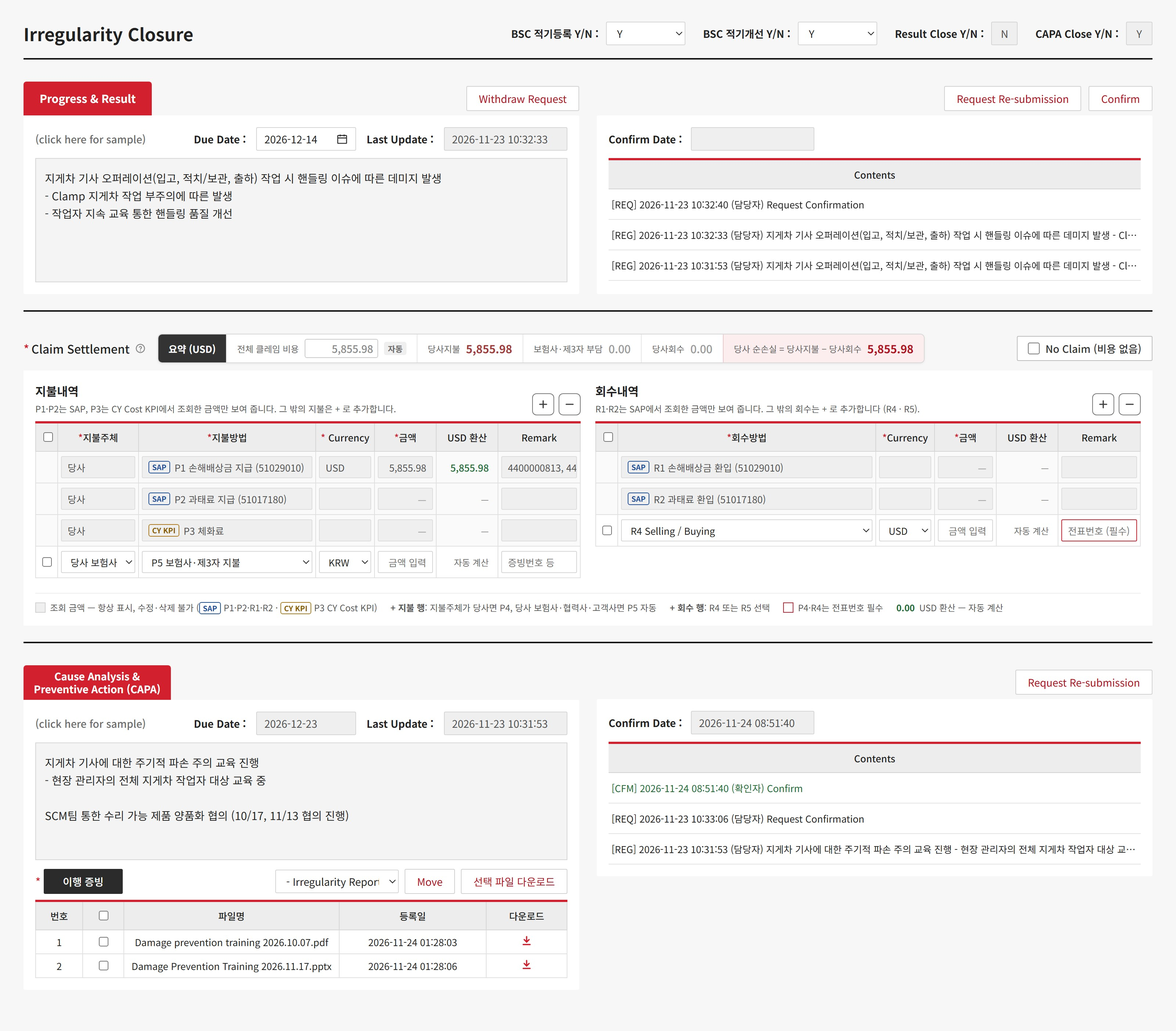
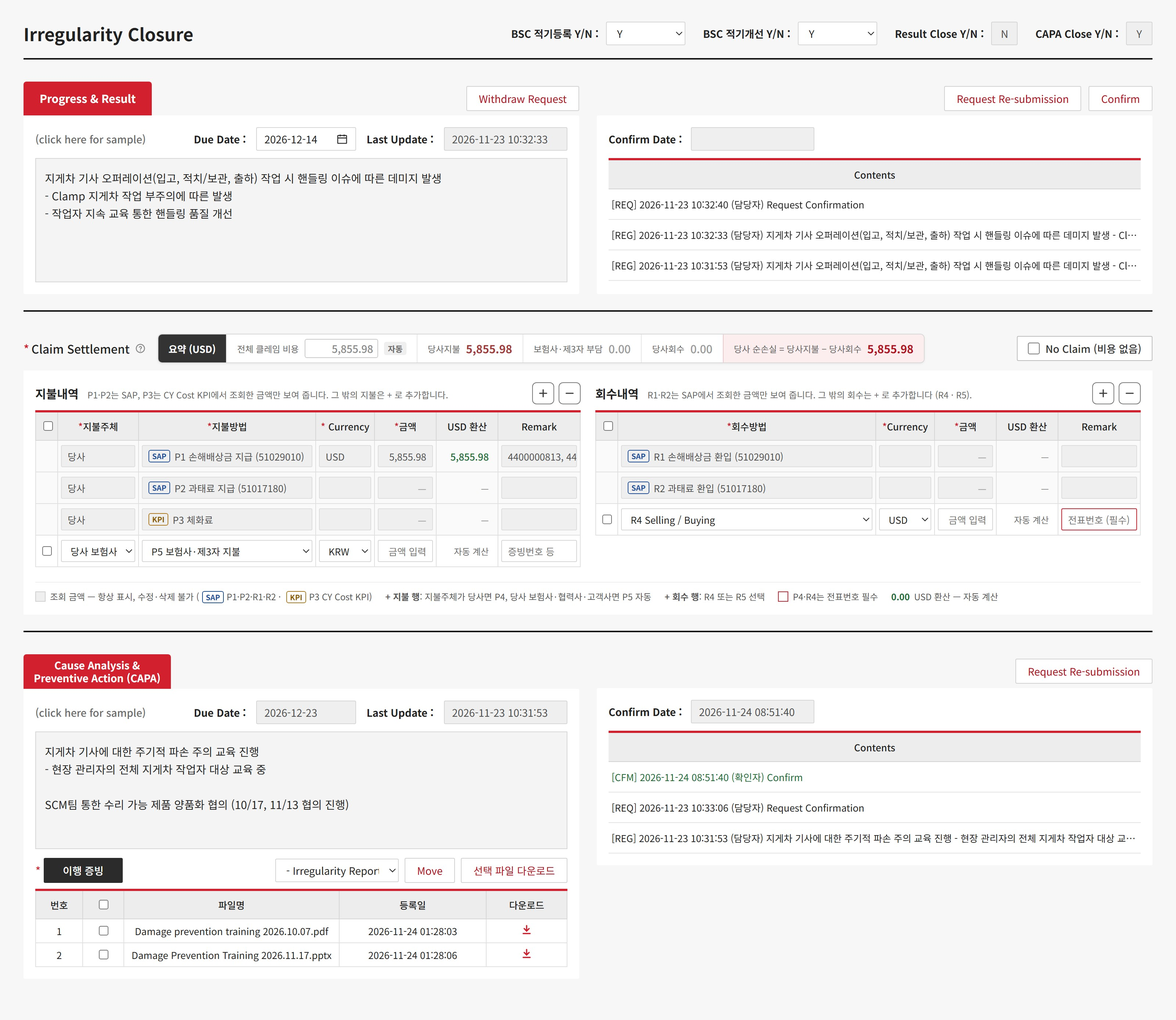
qms-claim-closure: drop empty-cost hint, stable auto tag, KPI tag, guidance beside table titles

diff --git a/share/qms-claim-closure.html b/share/qms-claim-closure.html
@@ -62,7 +62,7 @@ a{color:#B3121F}a:hover{color:#7E0C16}
 .totin{width:100px;height:26px;border:1px solid #C9C9C9;border-radius:3px;padding:0 6px;font:inherit;font-size:14px;font-weight:700;text-align:right;font-variant-numeric:tabular-nums;color:#222;background:#fff;box-sizing:border-box}
 .totin.isauto{color:#8A8A8A;font-weight:500}
 .totin:disabled{background:#F3F3F3;color:#9A9A9A}
-.totauto{font-size:11px;font-weight:700;color:#6B6B6B;background:#EFEFEF;border-radius:3px;padding:1px 5px;white-space:nowrap}
+.totauto{visibility:visible;font-size:11px;font-weight:700;color:#6B6B6B;background:#EFEFEF;border-radius:3px;padding:1px 5px;white-space:nowrap}
 .totin::placeholder{font-weight:400;color:#AAA}
 .grid tr.fx td{background:#FAFAFA}
 .nil{color:#A0A0A0}
@@ -174,10 +174,10 @@ a{color:#B3121F}a:hover{color:#7E0C16}
 <div style="display: grid; grid-template-columns: repeat(auto-fit, minmax(min(560px, 100%), 1fr)); gap: 20px; background: #fff; padding: 16px; box-sizing: border-box;">
 
 <div style="min-width: 0;">
-<div style="display: flex; align-items: flex-end; justify-content: space-between; gap: 12px; margin-bottom: 8px;">
-<div style="min-width: 0;">
+<div style="display: flex; align-items: center; justify-content: space-between; gap: 12px; margin-bottom: 8px;">
+<div style="min-width: 0; display: flex; flex-wrap: wrap; align-items: baseline; gap: 2px 12px;">
 <h2 style="margin: 0; font-size: 16px; font-weight: 700; display: flex; align-items: center; gap: 8px;">지불내역</h2>
-<p style="margin: 4px 0 0; font-size: 12px; color: #555; line-height: 1.5;">P1·P2는 SAP, P3는 CY Cost KPI에서 조회한 금액만 보여 줍니다. 그 밖의 지불은 + 로 추가합니다.</p>
+<p style="margin: 0; font-size: 12px; color: #666; line-height: 1.5;">P1·P2는 SAP, P3는 CY Cost KPI에서 조회한 금액만 보여 줍니다. 그 밖의 지불은 + 로 추가합니다.</p>
 </div>
 <div style="display: flex; align-items: center; gap: 6px; flex: none;">
 
@@ -219,7 +219,7 @@ a{color:#B3121F}a:hover{color:#7E0C16}
 <tr class="fx">
 <td></td>
 <td><div class="rocell">당사</div></td>
-<td><div class="rocell"><span class="chip cy">CY KPI</span>P3 체화료</div></td>
+<td><div class="rocell"><span class="chip cy">KPI</span>P3 체화료</div></td>
 <td><div class="rocell"></div></td>
 <td><div class="rocell num nil">—</div></td>
 <td><div class="auto">—</div></td>
@@ -240,10 +240,10 @@ a{color:#B3121F}a:hover{color:#7E0C16}
 </div>
 
 <div style="min-width: 0;">
-<div style="display: flex; align-items: flex-end; justify-content: space-between; gap: 12px; margin-bottom: 8px;">
-<div style="min-width: 0;">
+<div style="display: flex; align-items: center; justify-content: space-between; gap: 12px; margin-bottom: 8px;">
+<div style="min-width: 0; display: flex; flex-wrap: wrap; align-items: baseline; gap: 2px 12px;">
 <h2 style="margin: 0; font-size: 16px; font-weight: 700; display: flex; align-items: center; gap: 8px;">회수내역</h2>
-<p style="margin: 4px 0 0; font-size: 12px; color: #555; line-height: 1.5;">R1·R2는 SAP에서 조회한 금액만 보여 줍니다. 그 밖의 회수는 + 로 추가합니다 (R4 · R5).</p>
+<p style="margin: 0; font-size: 12px; color: #666; line-height: 1.5;">R1·R2는 SAP에서 조회한 금액만 보여 줍니다. 그 밖의 회수는 + 로 추가합니다 (R4 · R5).</p>
 </div>
 <div style="display: flex; align-items: center; gap: 6px; flex: none;">
 <button class="ibtn" type="button" aria-label="회수 행 추가"><svg width="16" height="16" viewBox="0 0 24 24" fill="none" stroke="currentColor" stroke-width="2.4" stroke-linecap="round" aria-hidden="true"><path d="M12 5v14M5 12h14"></path></svg></button>
@@ -292,7 +292,7 @@ a{color:#B3121F}a:hover{color:#7E0C16}
 </div>
 
 <div class="legend" style="grid-column: 1 / -1; margin-top: 0; padding-top: 10px; border-top: 1px solid #EEEEEE;">
-<span><span class="sw" style="background: #EFEFEF;"></span>조회 금액 — 항상 표시, 수정·삭제 불가 (<span class="chip" style="margin-right: 4px;">SAP</span>P1·P2·R1·R2 · <span class="chip cy" style="margin-right: 4px;">CY KPI</span>P3 CY Cost KPI)</span>
+<span><span class="sw" style="background: #EFEFEF;"></span>조회 금액 — 항상 표시, 수정·삭제 불가 (<span class="chip" style="margin: 0 4px;">SAP</span>P1·P2·R1·R2 · <span class="chip cy" style="margin: 0 4px;">KPI</span>P3 CY Cost KPI)</span>
 <span><b>+ 지불 행</b>: 지불주체가 당사면 P4, 당사 보험사·협력사·고객사면 P5 자동</span>
 <span><b>+ 회수 행</b>: R4 또는 R5 선택</span>
 <span><span class="sw" style="background: #fff; border-color: #D3202F;"></span>P4·R4는 전표번호 필수</span>
@@ -435,10 +435,10 @@ Summary (USD)</div>
 <div style="display: grid; grid-template-columns: repeat(auto-fit, minmax(min(560px, 100%), 1fr)); gap: 20px; background: #fff; padding: 16px; box-sizing: border-box;">
 
 <div style="min-width: 0;">
-<div style="display: flex; align-items: flex-end; justify-content: space-between; gap: 12px; margin-bottom: 8px;">
-<div style="min-width: 0;">
+<div style="display: flex; align-items: center; justify-content: space-between; gap: 12px; margin-bottom: 8px;">
+<div style="min-width: 0; display: flex; flex-wrap: wrap; align-items: baseline; gap: 2px 12px;">
 <h2 style="margin: 0; font-size: 16px; font-weight: 700; display: flex; align-items: center; gap: 8px;">Payments</h2>
-<p style="margin: 4px 0 0; font-size: 12px; color: #555; line-height: 1.5;">P1·P2 show SAP amounts and P3 shows the CY Cost KPI amount only. Add other payments with +.</p>
+<p style="margin: 0; font-size: 12px; color: #666; line-height: 1.5;">P1·P2 show SAP amounts and P3 shows the CY Cost KPI amount only. Add other payments with +.</p>
 </div>
 <div style="display: flex; align-items: center; gap: 6px; flex: none;">
 
@@ -480,7 +480,7 @@ Summary (USD)</div>
 <tr class="fx">
 <td></td>
 <td><div class="rocell">LXP</div></td>
-<td><div class="rocell"><span class="chip cy">CY KPI</span>P3 DEM/DET/STG</div></td>
+<td><div class="rocell"><span class="chip cy">KPI</span>P3 DEM/DET/STG</div></td>
 <td><div class="rocell"></div></td>
 <td><div class="rocell num nil">—</div></td>
 <td><div class="auto">—</div></td>
@@ -501,10 +501,10 @@ Summary (USD)</div>
 </div>
 
 <div style="min-width: 0;">
-<div style="display: flex; align-items: flex-end; justify-content: space-between; gap: 12px; margin-bottom: 8px;">
-<div style="min-width: 0;">
+<div style="display: flex; align-items: center; justify-content: space-between; gap: 12px; margin-bottom: 8px;">
+<div style="min-width: 0; display: flex; flex-wrap: wrap; align-items: baseline; gap: 2px 12px;">
 <h2 style="margin: 0; font-size: 16px; font-weight: 700; display: flex; align-items: center; gap: 8px;">Recoveries</h2>
-<p style="margin: 4px 0 0; font-size: 12px; color: #555; line-height: 1.5;">R1–R2 show SAP amounts only. Add other recoveries with + (R4 · R5).</p>
+<p style="margin: 0; font-size: 12px; color: #666; line-height: 1.5;">R1–R2 show SAP amounts only. Add other recoveries with + (R4 · R5).</p>
 </div>
 <div style="display: flex; align-items: center; gap: 6px; flex: none;">
 <button class="ibtn" type="button" aria-label="Add recovery row"><svg width="16" height="16" viewBox="0 0 24 24" fill="none" stroke="currentColor" stroke-width="2.4" stroke-linecap="round" aria-hidden="true"><path d="M12 5v14M5 12h14"></path></svg></button>
@@ -553,7 +553,7 @@ Summary (USD)</div>
 </div>
 
 <div class="legend" style="grid-column: 1 / -1; margin-top: 0; padding-top: 10px; border-top: 1px solid #EEEEEE;">
-<span><span class="sw" style="background: #EFEFEF;"></span>Looked-up amounts — always shown, cannot edit or delete (<span class="chip" style="margin-right: 4px;">SAP</span>P1·P2·R1·R2 · <span class="chip cy" style="margin-right: 4px;">CY KPI</span>P3 CY Cost KPI)</span>
+<span><span class="sw" style="background: #EFEFEF;"></span>Looked-up amounts — always shown, cannot edit or delete (<span class="chip" style="margin: 0 4px;">SAP</span>P1·P2·R1·R2 · <span class="chip cy" style="margin: 0 4px;">KPI</span>P3 CY Cost KPI)</span>
 <span><b>+ payment row</b>: Paid by LXP → P4; LXP insurer / vendor / customer → P5 (auto)</span>
 <span><b>+ recovery row</b>: choose R4 or R5</span>
 <span><span class="sw" style="background: #fff; border-color: #D3202F;"></span>Voucher no. required for P4 · R4</span>
@@ -660,7 +660,7 @@ Discussing repair of salvageable goods with the SCM team (meetings held 10/17, 1
 <li> Progress &amp; Result 오른쪽 이력(Contents): 머리글 + <b>3줄</b>이 보이는 높이로 고정, 넘치면 세로 스크롤 (머리글은 고정). 오른쪽 패널의 아래 끝은 왼쪽 패널과 맞춤.</li>
 <li>Claim Settlement 머리: 빨간 탭 대신 글자 제목 <b>* Claim Settlement ⓘ</b> (기존 Actual Loss Cost와 같은 모양) + 오른쪽에 요약 바 (검은 '요약 (USD)' 라벨 + 5칸) + 오른쪽 끝 No Claim. 요약 바는 아래 표 영역과 살짝 띄운 별도 카드.</li>
 <li>Claim Settlement 본문: <b>스플릿(Split screen)</b> 50:50 — 왼쪽 지불내역, 오른쪽 회수내역.</li>
-<li>각 표 위: 왼쪽 제목·안내 문구, 오른쪽 <b>+ / −</b> 버튼.</li>
+<li>각 표 위: 제목 오른쪽에 한 줄 안내, 맨 오른쪽 <b>+ / −</b> 버튼.</li>
 <li>화면 폭이 약 1,150px 보다 좁으면 지불 → 회수 순서로 위아래로 쌓이고, 표는 가로 스크롤.</li>
 <li>권장 컬럼 폭(px, 화면 폭 1,600px 기준): 지불 — 선택 30 · 주체 110 · 방법 나머지 · Currency 80 · 금액 84 · USD 환산 84 · Remark 112. 회수 — 주체 컬럼 없이 방법이 나머지 폭.</li>
 </ul>
@@ -671,7 +671,7 @@ Discussing repair of salvageable goods with the SCM team (meetings held 10/17, 1
 <table class="t">
 <thead><tr><th>항목</th><th>계산</th></tr></thead>
 <tbody>
-<tr><td> <b>전체 클레임 비용</b></td><td>이 건의 총 클레임 금액. 실제 화면 위쪽에 이미 있는 전체 비용 입력 칸의 값을 보여 줌. <b>미입력이면 당사지불 + 보험사·제3자 부담</b>을 자동으로 넣고 회색 글씨에 '자동' 표시 (직접 입력하면 그 값). No Claim이면 0. <b>시안에서는 임시로 이 칸에서 입력</b> — 괜찮으면 이 칸을 입력 칸으로 사용 (8번 확인 필요)</td></tr>
+<tr><td> <b>전체 클레임 비용</b></td><td>이 건의 총 클레임 금액. 실제 화면 위쪽에 이미 있는 전체 비용 입력 칸의 값을 보여 줌. <b>미입력이면 당사지불 + 보험사·제3자 부담</b>을 자동으로 넣고 회색 글씨에 '자동' 표시 (직접 입력하면 그 값). '자동' 표시 자리는 늘 비워 두어 요약 폭이 바뀌지 않게. No Claim이면 0. <b>시안에서는 임시로 이 칸에서 입력</b> — 괜찮으면 이 칸을 입력 칸으로 사용 (8번 확인 필요)</td></tr>
 <tr><td><b>당사지불</b></td><td>지불내역 중 지불주체 = 당사 인 행(P1~P4)의 USD 환산 합계</td></tr>
 <tr><td><b>보험사·제3자 부담</b></td><td>지불내역 중 지불주체 = 당사 보험사·협력사·고객사 인 행(P5)의 USD 환산 합계</td></tr>
 <tr><td><b>당사회수</b></td><td>회수내역 전체(R1·R2·R4·R5)의 USD 환산 합계</td></tr>
@@ -715,7 +715,6 @@ Discussing repair of salvageable goods with the SCM team (meetings held 10/17, 1
 <li>금액 없는 추가 행은 그대로 두고, 저장할 때 제외.</li>
 <li>체크 해제: 언제든 가능. 체크 중에 표의 <b>+</b> 를 누르면 No Claim <b>자동 해제</b>.</li>
 <li><b>No Claim으로 저장한 뒤라도</b> SAP · CY Cost KPI 조회 금액이 들어오면 No Claim <b>자동 해제</b>, 이력에 'No Claim 자동 해제 (비용 금액 들어옴)' 기록. 추가 행에 금액을 입력해도 같음.</li>
-<li>비용이 하나도 없고 No Claim도 아닐 때: 지불 표 아래에 회색 안내 '비용이 없으면 오른쪽 위 No Claim을 체크하세요'.</li>
 <li>저장 · Result Close: <b>금액이 있는 행 1개 이상</b> 또는 <b>No Claim 체크</b> 중 하나가 아니면 막음 (비용 누락 방지).</li>
 <li>데이터: Claim 여부(Y/N) 따로 저장 → 'No Claim 건수'와 '비용 미입력 건수'를 나눠 집계.</li>
 <li>이력(Contents): 체크·해제를 한 줄씩 남김 (제안). 예: <span class="f">[NCL] … No Claim 체크</span></li>
@@ -768,7 +767,7 @@ Discussing repair of salvageable goods with the SCM team (meetings held 10/17, 1
 </table>
 <ul style="margin-top: 12px;">
 <li>고정 행은 조회 금액이 없어도 항상 보여 주고, 금액 칸에 '—' 표시.</li>
-<li>고정 행은 방법 이름 앞에 출처 표시: <span class="f">SAP</span> (P1·P2·R1·R2), <span class="f">CY KPI</span> (P3).</li>
+<li>고정 행은 방법 이름 앞에 출처 표시: <span class="f">SAP</span> (P1·P2·R1·R2), <span class="f">KPI</span> (P3, CY Cost KPI).</li>
 <li>고정 행의 Currency · 금액 · Remark 칸은 회색으로 잠금.</li>
 <li>저장 시: 추가 행의 * 칸이 비었거나, P4·R4의 Remark(전표번호)가 비었으면 저장 막고 해당 칸 빨간 테두리.</li>
 </ul>
@@ -806,7 +805,6 @@ Discussing repair of salvageable goods with the SCM team (meetings held 10/17, 1
       types: { P1: 'P1 손해배상금 지급 (51029010)', P2: 'P2 과태료 지급 (51017180)', P3: 'P3 체화료', P4: 'P4 Selling / Buying', P5: 'P5 보험사·제3자 지불',
                R1: 'R1 손해배상금 환입 (51029010)', R2: 'R2 과태료 환입 (51017180)', R4: 'R4 Selling / Buying', R5: 'R5 기타' },
       choose: '선택', amount: '금액 입력', auto: '자동 계산', remark: '증빙번호 등', voucher: '전표번호 (필수)',
-      emptyHint: '조회·입력된 비용이 없습니다. 비용이 없으면 오른쪽 위 No Claim을 체크하세요.',
       ncDisabled: '비용 금액(SAP · CY Cost KPI 조회, 입력 행, 전체 클레임 비용)이 있어 No Claim을 선택할 수 없습니다.',
       badge: 'No Claim — 비용 없음',
       lossK: '당사 순손실 = 당사지불 − 당사회수', gainK: '당사 순이익 = 당사회수 − 당사지불',
@@ -823,7 +821,6 @@ Discussing repair of salvageable goods with the SCM team (meetings held 10/17, 1
       types: { P1: 'P1 Compensation (51029010)', P2: 'P2 Penalty (51017180)', P3: 'P3 DEM/DET/STG', P4: 'P4 Selling / Buying', P5: 'P5 Paid by insurer / 3rd party',
                R1: 'R1 Compensation (51029010)', R2: 'R2 Penalty (51017180)', R4: 'R4 Selling / Buying', R5: 'R5 Other' },
       choose: 'Select', amount: 'Amount', auto: 'Auto', remark: 'Evidence no.', voucher: 'Voucher no.',
-      emptyHint: 'No cost found or entered. If there is no cost, tick No Claim at the top right.',
       ncDisabled: 'A cost amount exists (SAP / CY Cost KPI, entered row or total claim cost), so No Claim cannot be selected.',
       badge: 'No Claim — no cost',
       lossK: 'LXP net loss (paid − recovered)', gainK: 'LXP net gain (recovered − paid)',
@@ -977,7 +974,7 @@ Discussing repair of salvageable goods with the SCM team (meetings held 10/17, 1
       if (r.fixed) {   // 조회 행 (P1·P2·R1·R2 SAP, P3 CY Cost KPI): 항상 표시, 수정·삭제 불가
         var h = '<tr class="fx"><td></td>';
         if (k === 'pay') h += '<td><div class="rocell">' + L.parties.LXP + '</div></td>';
-        h += '<td><div class="rocell"><span class="chip' + (r.type === 'P3' ? ' cy">CY KPI' : '">SAP') + '</span>' + esc(L.types[r.type]) + '</div></td>';
+        h += '<td><div class="rocell"><span class="chip' + (r.type === 'P3' ? ' cy">KPI' : '">SAP') + '</span>' + esc(L.types[r.type]) + '</div></td>';
         h += '<td><div class="rocell">' + (r.amt ? r.cur : '') + '</div></td>';
         h += '<td><div class="rocell num' + (r.amt ? '' : ' nil') + '">' + (r.amt ? fmt(r.amt) : '—') + '</div></td>';
         h += usdCell(r);
@@ -1003,8 +1000,7 @@ Discussing repair of salvageable goods with the SCM team (meetings held 10/17, 1
     function renderTables() {
       ['pay', 'rec'].forEach(function (k) {
         var cols = k === 'pay' ? 7 : 6;
-        tb[k].innerHTML = st[k].map(function (r, i) { return rowHTML(k, r, i); }).join('') +
-          (k === 'pay' && !hasCost() && !st.noClaim ? '<tr data-hint><td colspan="' + cols + '" style="text-align:center;color:#888;padding:12px 8px;font-size:12px;background:#FCFCFC">' + L.emptyHint + '</td></tr>' : '');
+        tb[k].innerHTML = st[k].map(function (r, i) { return rowHTML(k, r, i); }).join('');
       });
       syncSource();
       updateControls();
@@ -1027,8 +1023,6 @@ Discussing repair of salvageable goods with the SCM team (meetings held 10/17, 1
       nc.style.opacity = block ? '0.45' : '';
       nc.style.cursor = block ? 'not-allowed' : 'pointer';
       nc.title = block ? L.ncDisabled : '';
-      var hint = tb.pay.querySelector('[data-hint]');
-      if (hint && hasCost()) hint.remove();
     }
     function setV(el, value, cls) { el.textContent = fmt(value); el.className = 'v ' + cls + (value ? '' : ' zero'); }
     function updateSummary() {
@@ -1051,7 +1045,7 @@ Discussing repair of salvageable goods with the SCM team (meetings held 10/17, 1
       var isAuto = !st.noClaim && !st.total;
       tot.disabled = st.noClaim;
       tot.classList.toggle('isauto', isAuto);
-      if (autoTag) autoTag.style.display = isAuto ? '' : 'none';
+      if (autoTag) autoTag.style.visibility = isAuto ? 'visible' : 'hidden';
       if (!force && document.activeElement === tot) return;
       tot.value = st.noClaim ? fmt(0) : st.total ? fmt(st.total) : fmt(autoTotal);
     }
@@ -1101,7 +1095,7 @@ Discussing repair of salvageable goods with the SCM team (meetings held 10/17, 1
     tot.addEventListener('focus', function () { if (tot.classList.contains('isauto')) tot.select(); });
     section.addEventListener('input', function (e) {
       var t = e.target, k = t.getAttribute('data-k'), f = t.getAttribute('data-f');
-      if (t === tot) { st.total = num(tot.value); tot.classList.toggle('isauto', !st.total); if (autoTag) autoTag.style.display = st.total ? 'none' : ''; updateControls(); return; }
+      if (t === tot) { st.total = num(tot.value); tot.classList.toggle('isauto', !st.total); if (autoTag) autoTag.style.visibility = st.total ? 'hidden' : 'visible'; updateControls(); return; }
       if (!k || (f !== 'amt' && f !== 'remark')) return;
       var r = st[k][+t.getAttribute('data-i')];
       if (f === 'amt') {

diff --git a/share/qms-claim-closure-en.html b/share/qms-claim-closure-en.html
@@ -62,7 +62,7 @@ a{color:#B3121F}a:hover{color:#7E0C16}
 .totin{width:100px;height:26px;border:1px solid #C9C9C9;border-radius:3px;padding:0 6px;font:inherit;font-size:14px;font-weight:700;text-align:right;font-variant-numeric:tabular-nums;color:#222;background:#fff;box-sizing:border-box}
 .totin.isauto{color:#8A8A8A;font-weight:500}
 .totin:disabled{background:#F3F3F3;color:#9A9A9A}
-.totauto{font-size:11px;font-weight:700;color:#6B6B6B;background:#EFEFEF;border-radius:3px;padding:1px 5px;white-space:nowrap}
+.totauto{visibility:visible;font-size:11px;font-weight:700;color:#6B6B6B;background:#EFEFEF;border-radius:3px;padding:1px 5px;white-space:nowrap}
 .totin::placeholder{font-weight:400;color:#AAA}
 .grid tr.fx td{background:#FAFAFA}
 .nil{color:#A0A0A0}
@@ -174,10 +174,10 @@ Summary (USD)</div>
 <div style="display: grid; grid-template-columns: repeat(auto-fit, minmax(min(560px, 100%), 1fr)); gap: 20px; background: #fff; padding: 16px; box-sizing: border-box;">
 
 <div style="min-width: 0;">
-<div style="display: flex; align-items: flex-end; justify-content: space-between; gap: 12px; margin-bottom: 8px;">
-<div style="min-width: 0;">
+<div style="display: flex; align-items: center; justify-content: space-between; gap: 12px; margin-bottom: 8px;">
+<div style="min-width: 0; display: flex; flex-wrap: wrap; align-items: baseline; gap: 2px 12px;">
 <h2 style="margin: 0; font-size: 16px; font-weight: 700; display: flex; align-items: center; gap: 8px;">Payments</h2>
-<p style="margin: 4px 0 0; font-size: 12px; color: #555; line-height: 1.5;">P1·P2 show SAP amounts and P3 shows the CY Cost KPI amount only. Add other payments with +.</p>
+<p style="margin: 0; font-size: 12px; color: #666; line-height: 1.5;">P1·P2 show SAP amounts and P3 shows the CY Cost KPI amount only. Add other payments with +.</p>
 </div>
 <div style="display: flex; align-items: center; gap: 6px; flex: none;">
 
@@ -219,7 +219,7 @@ Summary (USD)</div>
 <tr class="fx">
 <td></td>
 <td><div class="rocell">LXP</div></td>
-<td><div class="rocell"><span class="chip cy">CY KPI</span>P3 DEM/DET/STG</div></td>
+<td><div class="rocell"><span class="chip cy">KPI</span>P3 DEM/DET/STG</div></td>
 <td><div class="rocell"></div></td>
 <td><div class="rocell num nil">—</div></td>
 <td><div class="auto">—</div></td>
@@ -240,10 +240,10 @@ Summary (USD)</div>
 </div>
 
 <div style="min-width: 0;">
-<div style="display: flex; align-items: flex-end; justify-content: space-between; gap: 12px; margin-bottom: 8px;">
-<div style="min-width: 0;">
+<div style="display: flex; align-items: center; justify-content: space-between; gap: 12px; margin-bottom: 8px;">
+<div style="min-width: 0; display: flex; flex-wrap: wrap; align-items: baseline; gap: 2px 12px;">
 <h2 style="margin: 0; font-size: 16px; font-weight: 700; display: flex; align-items: center; gap: 8px;">Recoveries</h2>
-<p style="margin: 4px 0 0; font-size: 12px; color: #555; line-height: 1.5;">R1–R2 show SAP amounts only. Add other recoveries with + (R4 · R5).</p>
+<p style="margin: 0; font-size: 12px; color: #666; line-height: 1.5;">R1–R2 show SAP amounts only. Add other recoveries with + (R4 · R5).</p>
 </div>
 <div style="display: flex; align-items: center; gap: 6px; flex: none;">
 <button class="ibtn" type="button" aria-label="Add recovery row"><svg width="16" height="16" viewBox="0 0 24 24" fill="none" stroke="currentColor" stroke-width="2.4" stroke-linecap="round" aria-hidden="true"><path d="M12 5v14M5 12h14"></path></svg></button>
@@ -292,7 +292,7 @@ Summary (USD)</div>
 </div>
 
 <div class="legend" style="grid-column: 1 / -1; margin-top: 0; padding-top: 10px; border-top: 1px solid #EEEEEE;">
-<span><span class="sw" style="background: #EFEFEF;"></span>Looked-up amounts — always shown, cannot edit or delete (<span class="chip" style="margin-right: 4px;">SAP</span>P1·P2·R1·R2 · <span class="chip cy" style="margin-right: 4px;">CY KPI</span>P3 CY Cost KPI)</span>
+<span><span class="sw" style="background: #EFEFEF;"></span>Looked-up amounts — always shown, cannot edit or delete (<span class="chip" style="margin: 0 4px;">SAP</span>P1·P2·R1·R2 · <span class="chip cy" style="margin: 0 4px;">KPI</span>P3 CY Cost KPI)</span>
 <span><b>+ payment row</b>: Paid by LXP → P4; LXP insurer / vendor / customer → P5 (auto)</span>
 <span><b>+ recovery row</b>: choose R4 or R5</span>
 <span><span class="sw" style="background: #fff; border-color: #D3202F;"></span>Voucher no. required for P4 · R4</span>
@@ -400,7 +400,7 @@ Discussing repair of salvageable goods with the SCM team (meetings held 10/17, 1
 <li> History (Contents) on the right of Progress &amp; Result: fixed height showing the header + <b>3 rows</b>; longer lists scroll vertically (header stays). The bottom of the right panel lines up with the left panel.</li>
 <li>Claim Settlement header: instead of a red tab, the text title <b>* Claim Settlement ⓘ</b> (same look as the old Actual Loss Cost label) + the summary bar to its right (black 'Summary (USD)' label + 5 cells) + No Claim at the far right. The summary bar is a separate card with a small gap above the tables.</li>
 <li>Claim Settlement body: <b>split screen</b> 50:50 — payments left, recoveries right.</li>
-<li>Above each table: title and guidance on the left, <b>+ / −</b> buttons on the right.</li>
+<li>Above each table: one line of guidance right of the title, <b>+ / −</b> buttons at the far right.</li>
 <li>Below about 1,150px width, the tables stack (payments, then recoveries) and scroll horizontally.</li>
 <li>Suggested column widths (px, at 1,600px screen width): payments — Select 30 · Paid by 124 · Type (rest) · Currency 88 · Amount 78 · In USD 76 · Remark 104. Recoveries — no party column; Type takes the rest.</li>
 </ul>
@@ -411,7 +411,7 @@ Discussing repair of salvageable goods with the SCM team (meetings held 10/17, 1
 <table class="t">
 <thead><tr><th>Item</th><th>Calculation</th></tr></thead>
 <tbody>
-<tr><td> <b>Total claim cost</b></td><td>Total claim amount of the case. Shows the value of the existing total-cost input at the top of the real screen. <b>If not entered, it is filled with LXP paid + insurer / 3rd party</b> in grey with an 'Auto' tag (an entered value wins). 0 when No Claim is checked. <b>In this mockup it is entered here temporarily</b> — if that works, this cell can become the input (see 8)</td></tr>
+<tr><td> <b>Total claim cost</b></td><td>Total claim amount of the case. Shows the value of the existing total-cost input at the top of the real screen. <b>If not entered, it is filled with LXP paid + insurer / 3rd party</b> in grey with an 'Auto' tag (an entered value wins). The tag's space is always reserved so the summary width never changes. 0 when No Claim is checked. <b>In this mockup it is entered here temporarily</b> — if that works, this cell can become the input (see 8)</td></tr>
 <tr><td><b>LXP paid</b></td><td>Sum in USD of payment rows where Paid by = LXP (P1–P4)</td></tr>
 <tr><td><b>Insurer / 3rd party</b></td><td>Sum in USD of payment rows paid by LXP insurer, vendor or customer (P5)</td></tr>
 <tr><td><b>LXP recovered</b></td><td>Sum in USD of all recovery rows (R1·R2·R4·R5)</td></tr>
@@ -455,7 +455,6 @@ Discussing repair of salvageable goods with the SCM team (meetings held 10/17, 1
 <li>Added rows without an amount stay on screen and are skipped when saving.</li>
 <li>Unchecking: allowed at any time. While checked, pressing <b>+</b> on a table <b>clears No Claim automatically</b>.</li>
 <li><b>Even after saving as No Claim</b>, if an SAP / CY Cost KPI amount arrives, No Claim is <b>cleared automatically</b> and logged as 'No Claim cleared automatically (cost amount received)'. Same when an amount is entered in an added row.</li>
-<li>If there is no cost and No Claim is not checked: a grey hint below the payment table 'If there is no cost, tick No Claim at the top right'.</li>
 <li>Save · Result Close: blocked unless there is <b>at least one row with an amount</b> or <b>No Claim is checked</b> (prevents missing costs).</li>
 <li>Data: store Claim Y/N separately so 'No Claim' cases and 'cost not entered' cases can be counted apart.</li>
 <li>History (Contents): log check / uncheck as one line each (suggestion). E.g. <span class="f">[NCL] … No Claim checked</span></li>
@@ -508,7 +507,7 @@ Discussing repair of salvageable goods with the SCM team (meetings held 10/17, 1
 </table>
 <ul style="margin-top: 12px;">
 <li>Fixed rows are always shown, even with no looked-up amount; the amount cell then shows '—'.</li>
-<li>Fixed rows show their source before the type name: <span class="f">SAP</span> (P1·P2·R1·R2), <span class="f">CY KPI</span> (P3).</li>
+<li>Fixed rows show their source before the type name: <span class="f">SAP</span> (P1·P2·R1·R2), <span class="f">KPI</span> (P3, CY Cost KPI).</li>
 <li>Currency · Amount · Remark on fixed rows are locked in grey.</li>
 <li>On save: if a required (*) field of an added row is empty, or the Remark (voucher no.) of P4·R4 is empty, block saving and outline the field in red.</li>
 </ul>
@@ -546,7 +545,6 @@ Discussing repair of salvageable goods with the SCM team (meetings held 10/17, 1
       types: { P1: 'P1 손해배상금 지급 (51029010)', P2: 'P2 과태료 지급 (51017180)', P3: 'P3 체화료', P4: 'P4 Selling / Buying', P5: 'P5 보험사·제3자 지불',
                R1: 'R1 손해배상금 환입 (51029010)', R2: 'R2 과태료 환입 (51017180)', R4: 'R4 Selling / Buying', R5: 'R5 기타' },
       choose: '선택', amount: '금액 입력', auto: '자동 계산', remark: '증빙번호 등', voucher: '전표번호 (필수)',
-      emptyHint: '조회·입력된 비용이 없습니다. 비용이 없으면 오른쪽 위 No Claim을 체크하세요.',
       ncDisabled: '비용 금액(SAP · CY Cost KPI 조회, 입력 행, 전체 클레임 비용)이 있어 No Claim을 선택할 수 없습니다.',
       badge: 'No Claim — 비용 없음',
       lossK: '당사 순손실 = 당사지불 − 당사회수', gainK: '당사 순이익 = 당사회수 − 당사지불',
@@ -563,7 +561,6 @@ Discussing repair of salvageable goods with the SCM team (meetings held 10/17, 1
       types: { P1: 'P1 Compensation (51029010)', P2: 'P2 Penalty (51017180)', P3: 'P3 DEM/DET/STG', P4: 'P4 Selling / Buying', P5: 'P5 Paid by insurer / 3rd party',
                R1: 'R1 Compensation (51029010)', R2: 'R2 Penalty (51017180)', R4: 'R4 Selling / Buying', R5: 'R5 Other' },
       choose: 'Select', amount: 'Amount', auto: 'Auto', remark: 'Evidence no.', voucher: 'Voucher no.',
-      emptyHint: 'No cost found or entered. If there is no cost, tick No Claim at the top right.',
       ncDisabled: 'A cost amount exists (SAP / CY Cost KPI, entered row or total claim cost), so No Claim cannot be selected.',
       badge: 'No Claim — no cost',
       lossK: 'LXP net loss (paid − recovered)', gainK: 'LXP net gain (recovered − paid)',
@@ -717,7 +714,7 @@ Discussing repair of salvageable goods with the SCM team (meetings held 10/17, 1
       if (r.fixed) {   // 조회 행 (P1·P2·R1·R2 SAP, P3 CY Cost KPI): 항상 표시, 수정·삭제 불가
         var h = '<tr class="fx"><td></td>';
         if (k === 'pay') h += '<td><div class="rocell">' + L.parties.LXP + '</div></td>';
-        h += '<td><div class="rocell"><span class="chip' + (r.type === 'P3' ? ' cy">CY KPI' : '">SAP') + '</span>' + esc(L.types[r.type]) + '</div></td>';
+        h += '<td><div class="rocell"><span class="chip' + (r.type === 'P3' ? ' cy">KPI' : '">SAP') + '</span>' + esc(L.types[r.type]) + '</div></td>';
         h += '<td><div class="rocell">' + (r.amt ? r.cur : '') + '</div></td>';
         h += '<td><div class="rocell num' + (r.amt ? '' : ' nil') + '">' + (r.amt ? fmt(r.amt) : '—') + '</div></td>';
         h += usdCell(r);
@@ -743,8 +740,7 @@ Discussing repair of salvageable goods with the SCM team (meetings held 10/17, 1
     function renderTables() {
       ['pay', 'rec'].forEach(function (k) {
         var cols = k === 'pay' ? 7 : 6;
-        tb[k].innerHTML = st[k].map(function (r, i) { return rowHTML(k, r, i); }).join('') +
-          (k === 'pay' && !hasCost() && !st.noClaim ? '<tr data-hint><td colspan="' + cols + '" style="text-align:center;color:#888;padding:12px 8px;font-size:12px;background:#FCFCFC">' + L.emptyHint + '</td></tr>' : '');
+        tb[k].innerHTML = st[k].map(function (r, i) { return rowHTML(k, r, i); }).join('');
       });
       syncSource();
       updateControls();
@@ -767,8 +763,6 @@ Discussing repair of salvageable goods with the SCM team (meetings held 10/17, 1
       nc.style.opacity = block ? '0.45' : '';
       nc.style.cursor = block ? 'not-allowed' : 'pointer';
       nc.title = block ? L.ncDisabled : '';
-      var hint = tb.pay.querySelector('[data-hint]');
-      if (hint && hasCost()) hint.remove();
     }
     function setV(el, value, cls) { el.textContent = fmt(value); el.className = 'v ' + cls + (value ? '' : ' zero'); }
     function updateSummary() {
@@ -791,7 +785,7 @@ Discussing repair of salvageable goods with the SCM team (meetings held 10/17, 1
       var isAuto = !st.noClaim && !st.total;
       tot.disabled = st.noClaim;
       tot.classList.toggle('isauto', isAuto);
-      if (autoTag) autoTag.style.display = isAuto ? '' : 'none';
+      if (autoTag) autoTag.style.visibility = isAuto ? 'visible' : 'hidden';
       if (!force && document.activeElement === tot) return;
       tot.value = st.noClaim ? fmt(0) : st.total ? fmt(st.total) : fmt(autoTotal);
     }
@@ -841,7 +835,7 @@ Discussing repair of salvageable goods with the SCM team (meetings held 10/17, 1
     tot.addEventListener('focus', function () { if (tot.classList.contains('isauto')) tot.select(); });
     section.addEventListener('input', function (e) {
       var t = e.target, k = t.getAttribute('data-k'), f = t.getAttribute('data-f');
-      if (t === tot) { st.total = num(tot.value); tot.classList.toggle('isauto', !st.total); if (autoTag) autoTag.style.display = st.total ? 'none' : ''; updateControls(); return; }
+      if (t === tot) { st.total = num(tot.value); tot.classList.toggle('isauto', !st.total); if (autoTag) autoTag.style.visibility = st.total ? 'hidden' : 'visible'; updateControls(); return; }
       if (!k || (f !== 'amt' && f !== 'remark')) return;
       var r = st[k][+t.getAttribute('data-i')];
       if (f === 'amt') {
